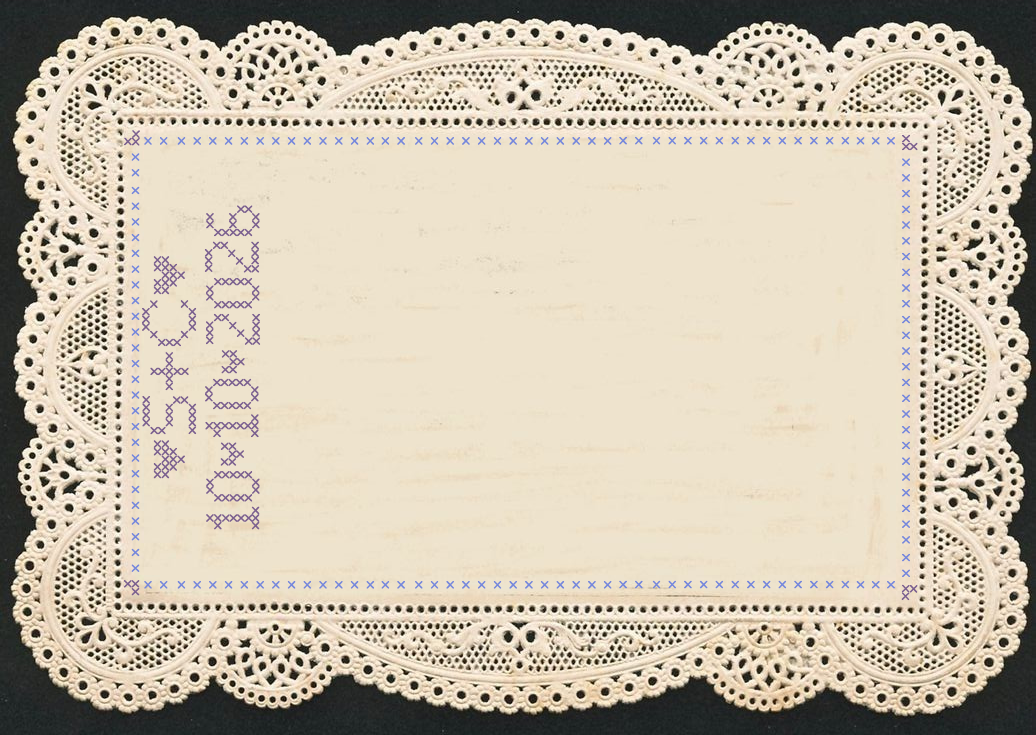
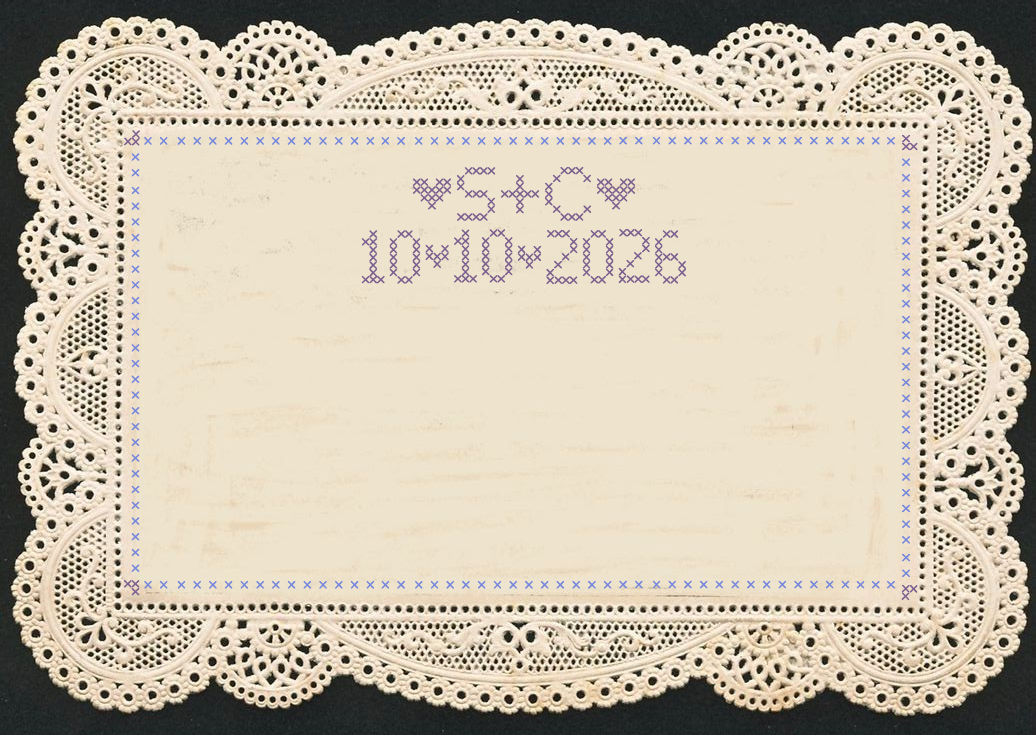
fixing background image and text style updates

Changed region(s): [[0.3398, 0.2095, 0.6795, 0.3891], [0.1236, 0.2694, 0.2471, 0.7184], [0.1236, 0.419, 0.1544, 0.449]]

diff --git a/index.html b/index.html
@@ -12,11 +12,17 @@
 
     <img src="images/backgroundLandscape.png">
     <div class="textStuff">
+        <br>
+        <br>
+        <br>
+        <br>
+        <br>
     <ul>
-        <li><a href="pages/dress.html">dress code</a></li>
-        <li><a href="pages/venue.html">venue info</a></li>
-        <li><a href="pages/transport.html">how to get there</a></li>
-        <li><a href="pages/food.html">food and drinks</a></li>
+        <li><a href="pages/dress.html">Dress code</a></li>
+        <li><a href="pages/venue.html">Venue info</a></li>
+        <li><a href="pages/transport.html">How to get there</a></li>
+        <li><a href="pages/food.html">Food and drinks</a></li>
+        <li><a href="pages/FAQs.html">FAQs</a></li>
     </ul>
     <p>No presents please but there will be a wishing well.</p>
     <p>Please RSVP by 1 September to Caitlin 0447 844 824 or Sabrina 0435 551 668. </br>Please let us know if any dietary requirements.</p>

diff --git a/style.css b/style.css
@@ -27,6 +27,10 @@ li {
 
 }
 
+ul {
+    padding: 0;
+}
+
 a {
     color:#7b608f
 }